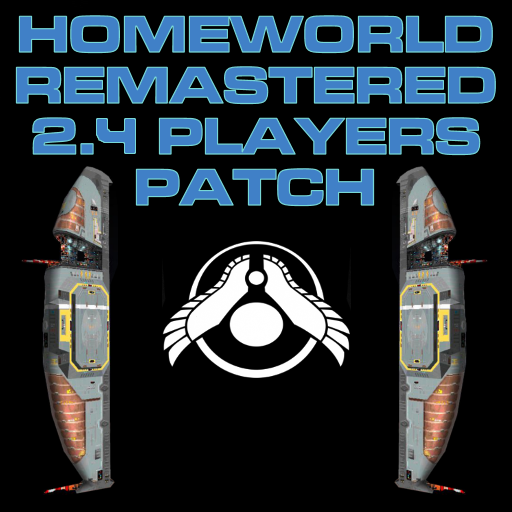
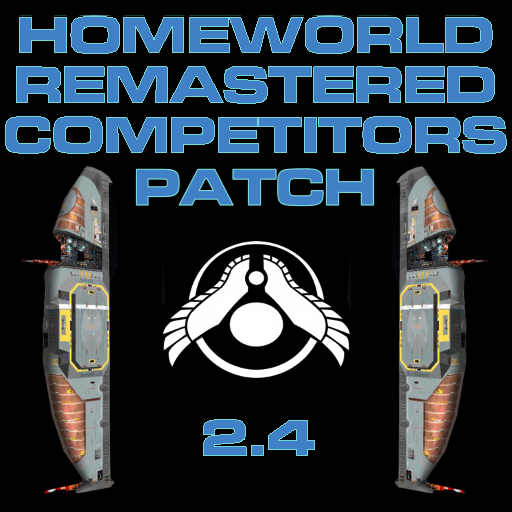
namechange

Changed region(s): [[0.0, 0.0312, 1.0, 0.3125], [0.375, 0.8125, 0.625, 0.9062]]

diff --git a/README.md b/README.md
@@ -1,4 +1,4 @@
-# 2.4 Players Patch (Dual Command Mode)
+# 2.4 Competitors Patch (Dual Command Mode)
 Dual Command Mode is a mod for Homeworld Remastered 2.1 which allows you to control two fleets at once in a multiplayer/skirmish match to make up for an odd number of players. This mod also features balance changes and bug fixes.
 
 ## Description

diff --git a/changelogs/build10-2/kus_changes.md b/changelogs/build10-2/kus_changes.md
@@ -1,0 +1,5 @@
+# Kushan
+
+## Mothership
+> *A weird feature of the Kus mothership is resulting in a bug after we added research tells. Fix!*
+* **Kus mothership can no longer build additional subsystems**

diff --git a/changelogs/build10-2/misc_changes.md b/changelogs/build10-2/misc_changes.md
@@ -1,0 +1,4 @@
+## Mod rename
+> *A real identity that's easy to remember!*
+* **Name:** `Dual Command => 2.4 Competitors Patch`
+* **New logo**
